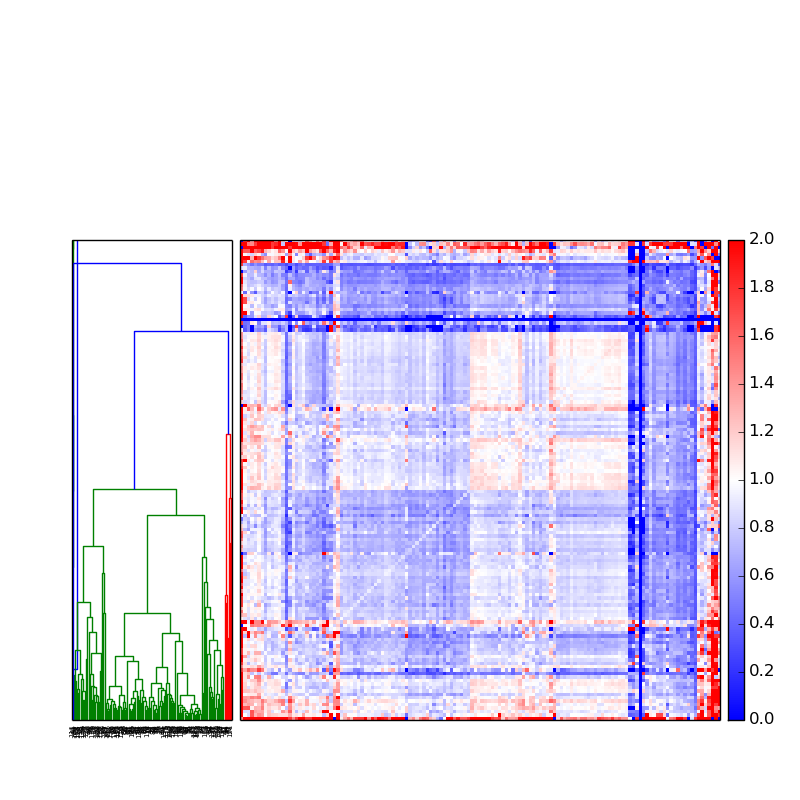
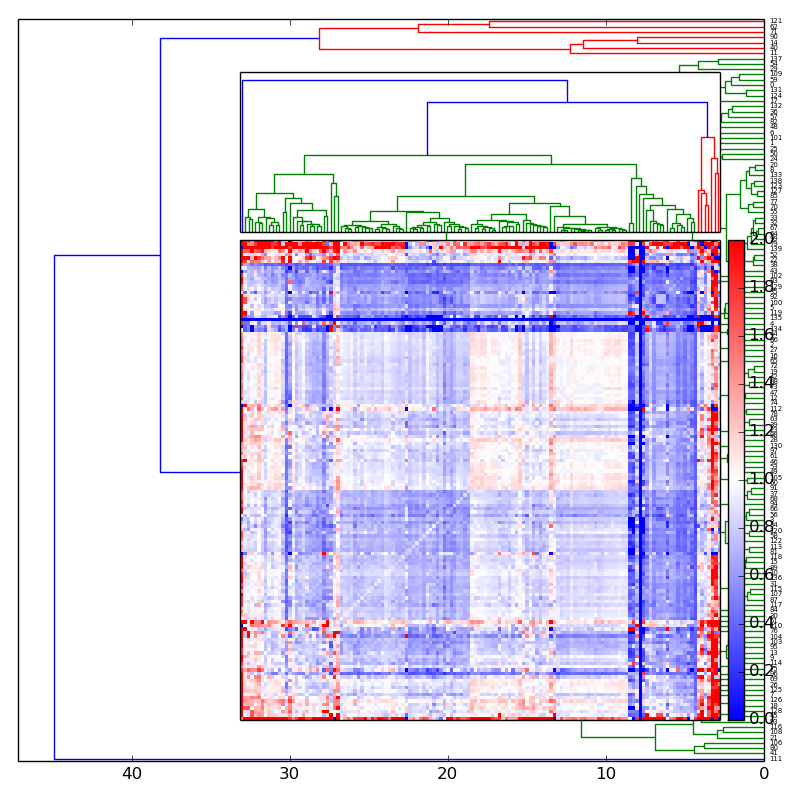
updates

Changed region(s): [[0.0312, 0.0, 1.0, 0.9688], [0.0, 0.0312, 0.0312, 0.9375]]

diff --git a/src/create_matrix_from_bidirectional.py b/src/create_matrix_from_bidirectional.py
@@ -93,8 +93,8 @@ def run():
     D = vectors
     fig = pylab.figure(figsize=(8,8))
     #ax1 = fig.add_axes([0.09,0.1,0.2,0.6])
-    Y = sch.linkage(D, method='ward')
-    Z1 = sch.dendrogram(Y, orientation='right')
+    #Y = sch.linkage(D, method='ward')
+    #Z1 = sch.dendrogram(Y, orientation='right')
     #ax1.set_xticks([])
     #ax1.set_yticks([])
     
@@ -107,7 +107,7 @@ def run():
     #
     # Plot distance matrix.
     axmatrix = fig.add_axes([0.3,0.1,0.6,0.6])
-    idx1 = Z1['leaves']
+    idx1 = Z2['leaves']
     idx2 = Z2['leaves']
     D = D[idx1,:]
     D = D[:,idx2]
